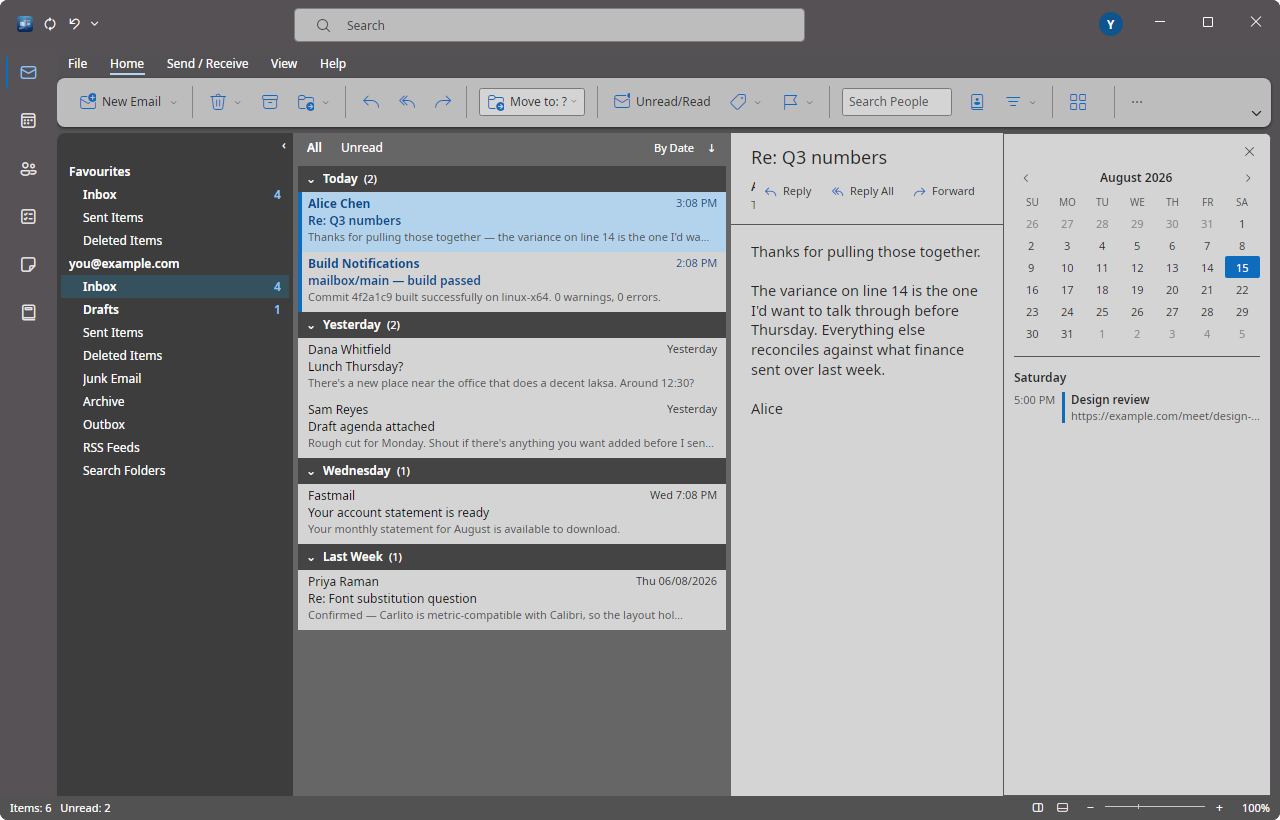
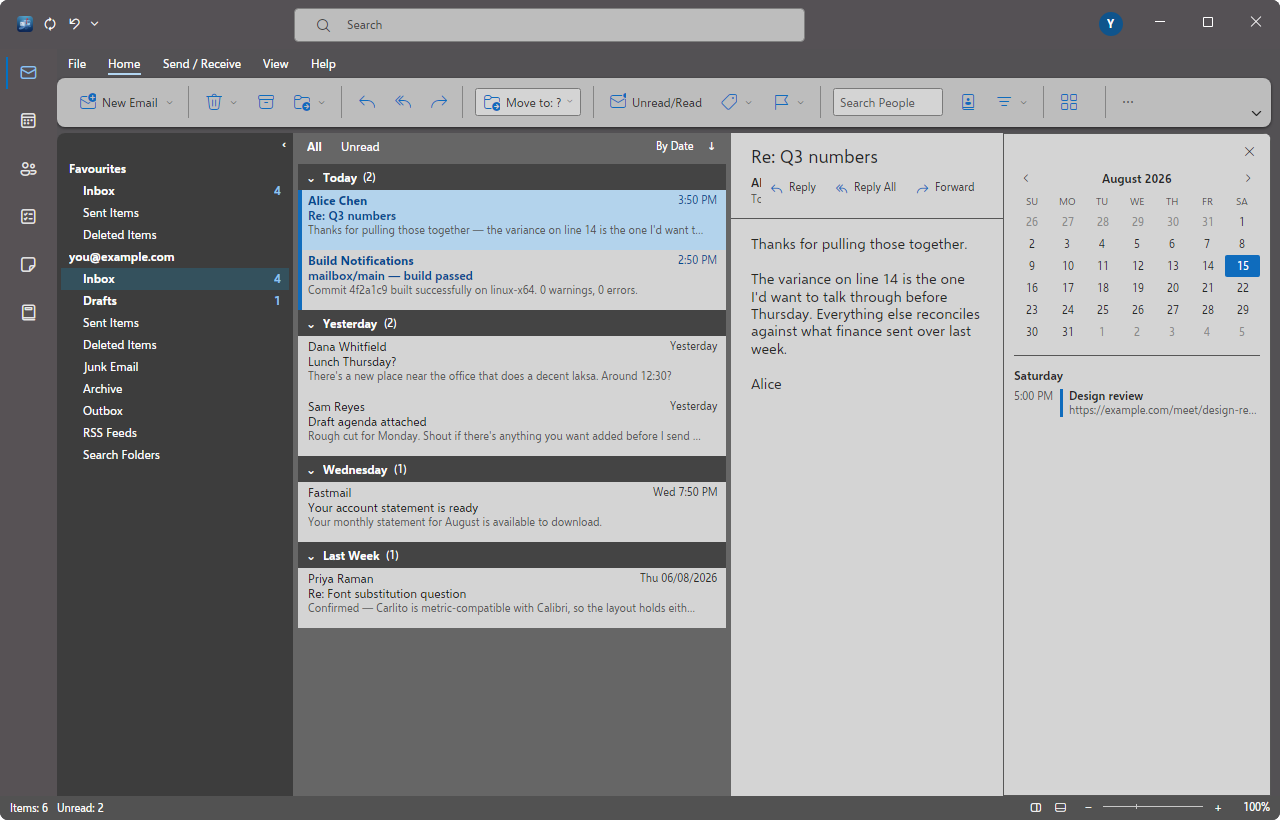
Draw the UI in Selawik, which was resolved but never drawn
The theme says Segoe UI, the resolver says Selawik, and the resource said
Selawik — by its bare family name, which Avalonia looks up among the system's
fonts alone. An embedded family is reached only through its collection, so the
glyphs on screen were whatever fontconfig gave for an unknown family: Noto Sans
here, six to ten percent wider than the metrics the whole chrome was measured
against, and the reason the Options rail clipped "Quick Access Toolbar".
BundledFonts.FamilyFor publishes a bundled family as fonts:Mailbox#Selawik, and
the log names the face the font manager actually matched.

Measured after: "General" on the Options rail is 39px against the reference's
38, and cap heights match at 12px. The reference's text still runs about seven
percent wider than the font's own metrics — Windows snaps each advance to a
whole pixel — which is recorded rather than emulated.

diff --git a/src/Mailbox.Theming/Fonts/BundledFonts.cs b/src/Mailbox.Theming/Fonts/BundledFonts.cs
@@ -29,6 +29,21 @@ public static class BundledFonts
     public static IReadOnlyList<string> Families { get; } = [SelawikFamily];
 
     /// <summary>
+    /// The family as Avalonia has to be asked for it. A bundled family is found only through its
+    /// collection — <c>fonts:Mailbox#Selawik</c> — while a bare name is looked up among the
+    /// system's fonts alone, and a bare "Selawik" drew Noto Sans (or whatever fontconfig had)
+    /// from the first session until session 7, some six to ten percent wider than the metrics
+    /// the whole chrome was measured against. Any other family is returned as it is.
+    /// </summary>
+    public static FontFamily FamilyFor(string rendered)
+    {
+        ArgumentException.ThrowIfNullOrWhiteSpace(rendered);
+        return Families.Contains(rendered, StringComparer.OrdinalIgnoreCase)
+            ? new FontFamily("fonts:Mailbox#" + rendered)
+            : new FontFamily(rendered);
+    }
+
+    /// <summary>
     /// Registers the bundled typefaces with Avalonia so they resolve by plain family name —
     /// <c>Selawik</c> rather than an <c>avares://</c> URI. Call once at startup, before the
     /// first <see cref="FontResolver"/> is built.

diff --git a/src/Mailbox.App/Theming/ThemeResourceBridge.cs b/src/Mailbox.App/Theming/ThemeResourceBridge.cs
@@ -63,19 +63,21 @@ public sealed class ThemeResourceBridge
         }
 
         // Convenience aliases so common XAML reads naturally.
+        // Through BundledFonts.FamilyFor, because a family Mailbox bundles is found only through
+        // its collection: asked for by its bare name, Selawik was never drawn.
         if (tokens.TryGetString(TokenKeys.Typography.UiFamily, out var uiFamily))
         {
-            _target["ui.fontfamily"] = new FontFamily(uiFamily);
+            _target["ui.fontfamily"] = Mailbox.Theming.Fonts.BundledFonts.FamilyFor(uiFamily);
         }
 
         if (tokens.TryGetString(TokenKeys.Typography.ContentFamily, out var contentFamily))
         {
-            _target["content.fontfamily"] = new FontFamily(contentFamily);
+            _target["content.fontfamily"] = Mailbox.Theming.Fonts.BundledFonts.FamilyFor(contentFamily);
         }
 
         if (tokens.TryGetString(TokenKeys.Typography.MonoFamily, out var monoFamily))
         {
-            _target["mono.fontfamily"] = new FontFamily(monoFamily);
+            _target["mono.fontfamily"] = Mailbox.Theming.Fonts.BundledFonts.FamilyFor(monoFamily);
         }
 
         PublishControlThemePalette(tokens);

diff --git a/src/Mailbox.App/Views/MainWindow.axaml.cs b/src/Mailbox.App/Views/MainWindow.axaml.cs
@@ -64,6 +64,10 @@ public partial class MainWindow : Window
         // bar. In the reference the bar carries the item counts and nothing else.
         Log.Info($"Text rendering: {TextRendering.Describe()}");
         Log.Info($"UI font: {App.Fonts.Resolve("Segoe UI").Rendered}");
+        if (Avalonia.Media.FontManager.Current.TryGetGlyphTypeface(new Avalonia.Media.Typeface((Avalonia.Media.FontFamily)(Application.Current!.FindResource("ui.fontfamily") ?? Avalonia.Media.FontFamily.Default)), out var uiFace))
+        {
+            Log.Info($"UI font drawn as: {uiFace.FamilyName} (asked for {Application.Current!.FindResource("ui.fontfamily")})");
+        }
         Log.Info($"Body font: {App.Fonts.Resolve("Calibri").Rendered}");
 
         var quickAccess = App.QuickAccess;

diff --git a/src/Mailbox.App/Views/ComposeSurface.cs b/src/Mailbox.App/Views/ComposeSurface.cs
@@ -217,7 +217,7 @@ public sealed class ComposeSurface : UserControl
         // buttons.
         _body = new RichEditor
         {
-            DefaultFontFamily = new FontFamily(App.Fonts.Resolve(ComposeFontFamily).Rendered),
+            DefaultFontFamily = Mailbox.Theming.Fonts.BundledFonts.FamilyFor(App.Fonts.Resolve(ComposeFontFamily).Rendered),
             DefaultFontSize = ComposeFontPoints / PointsPerPixel,
             AllowRemoteImagesOnPaste = false,
             AllowLocalFileImages = false,
